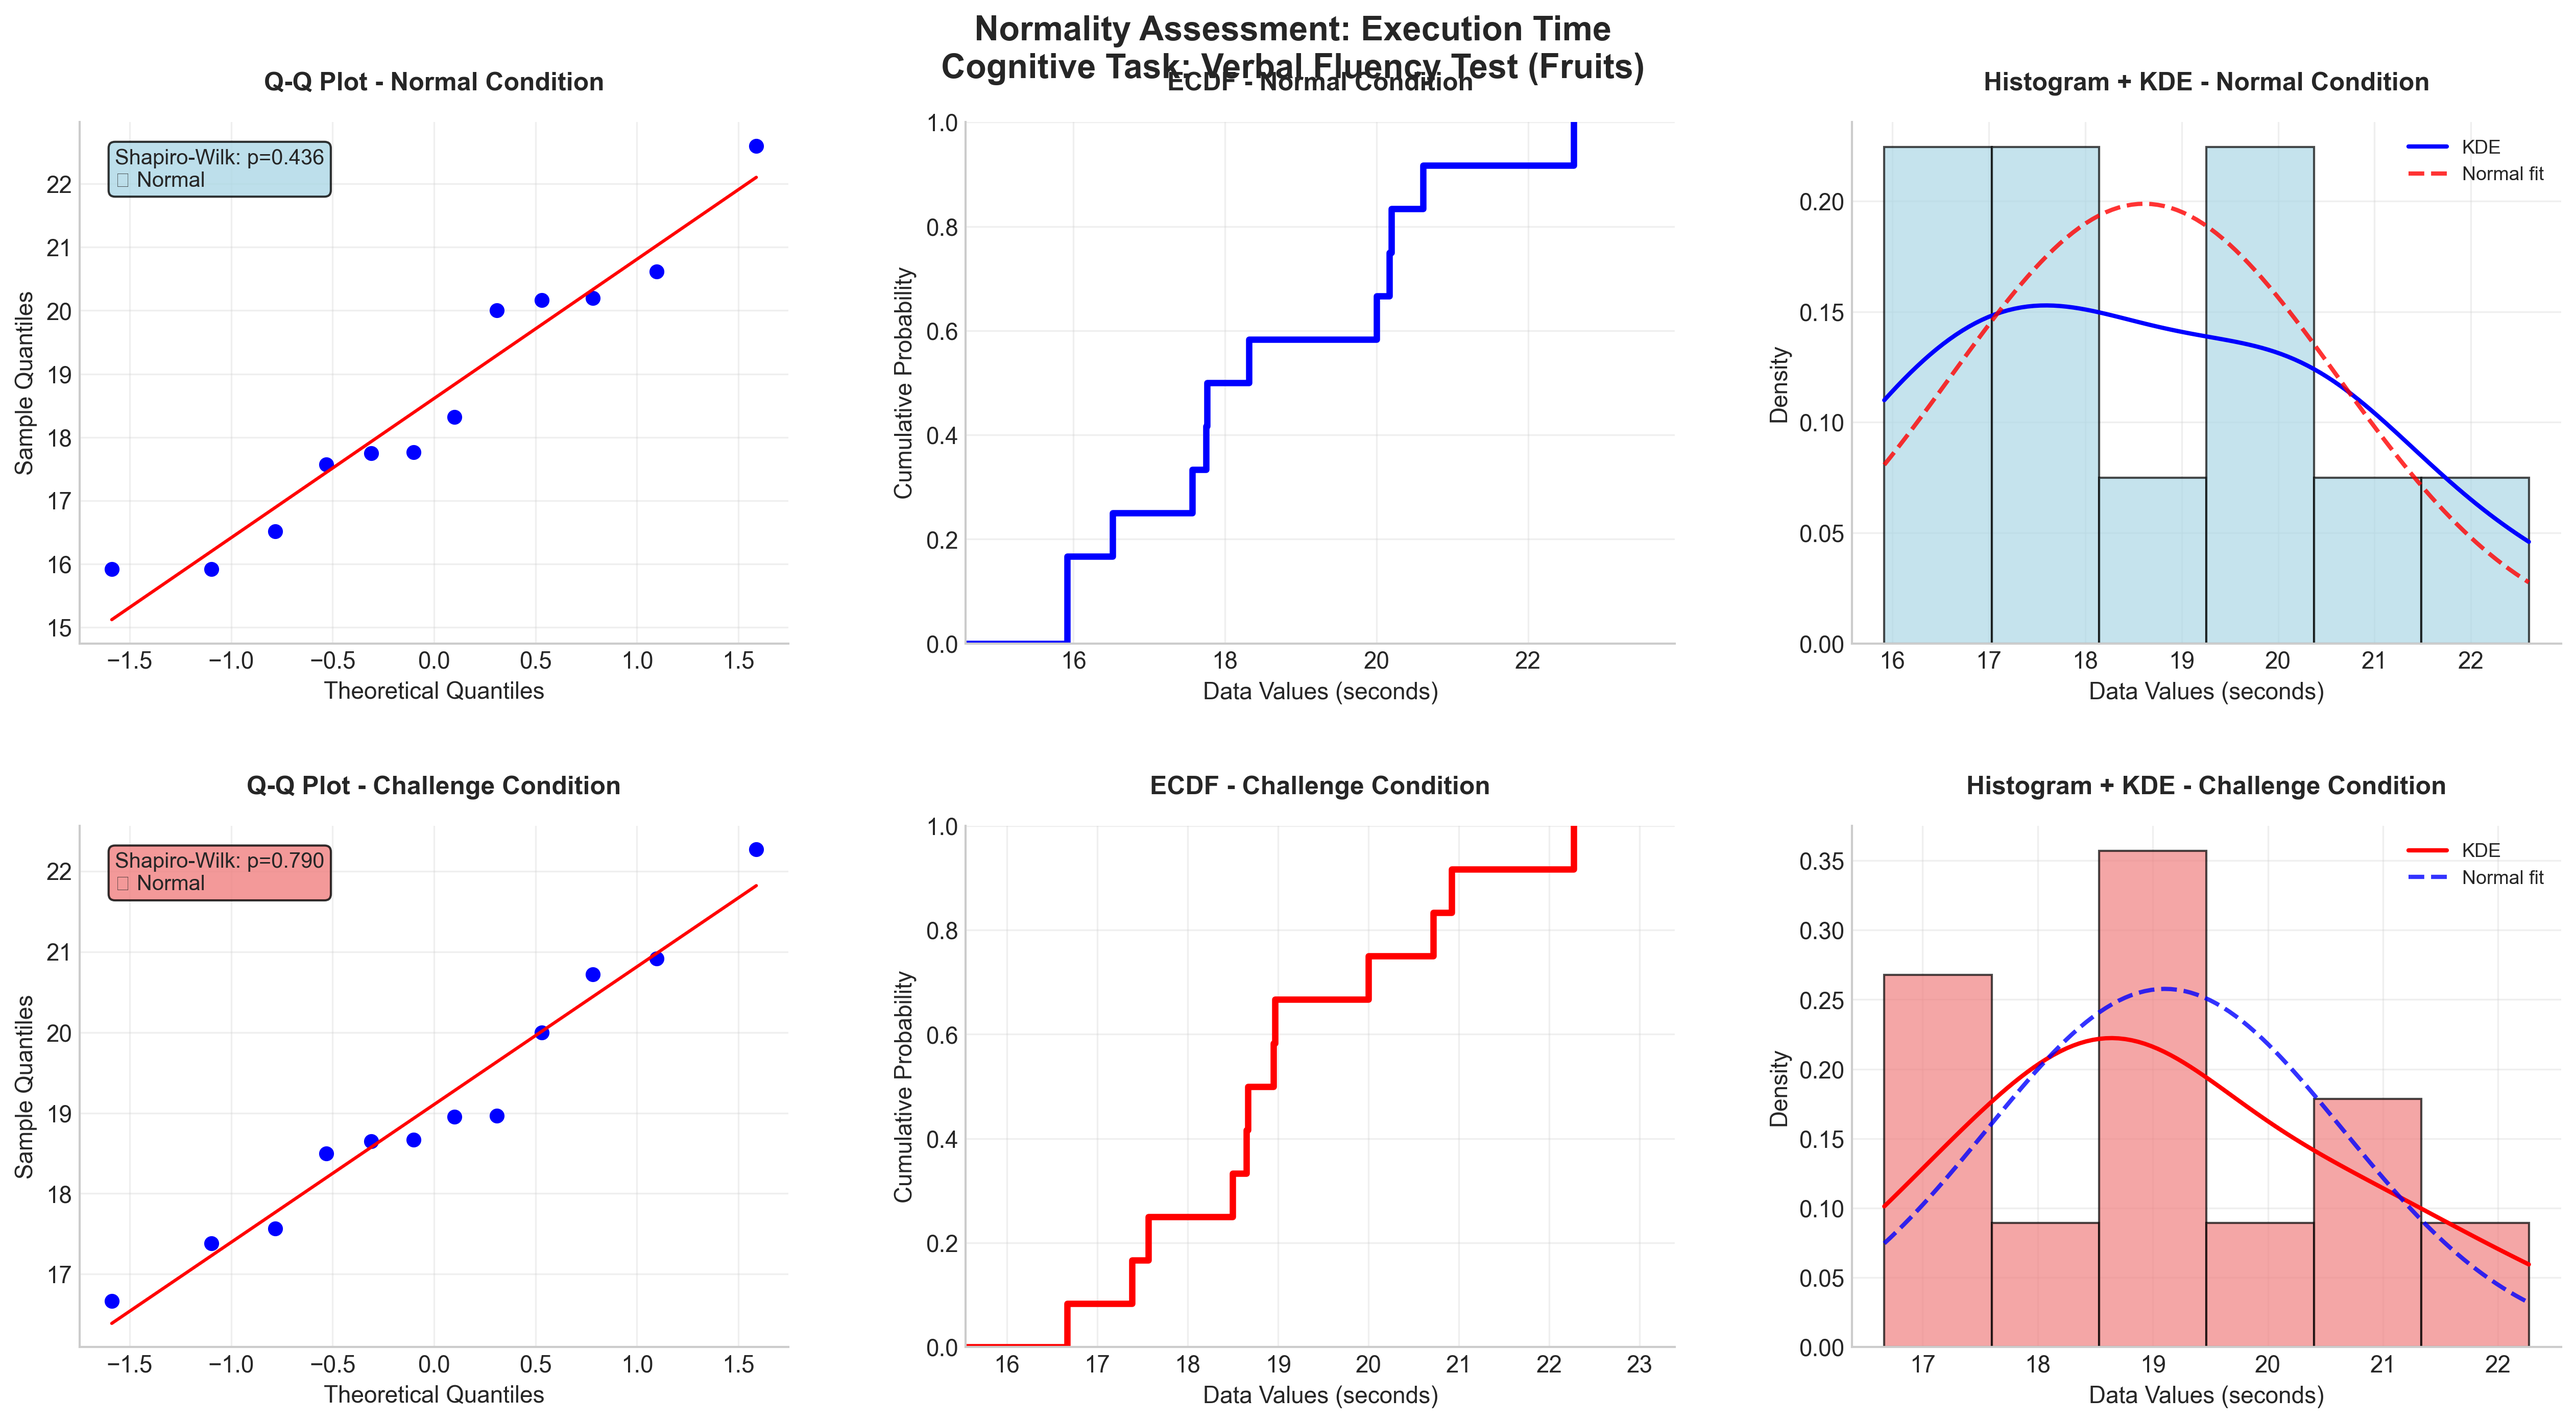
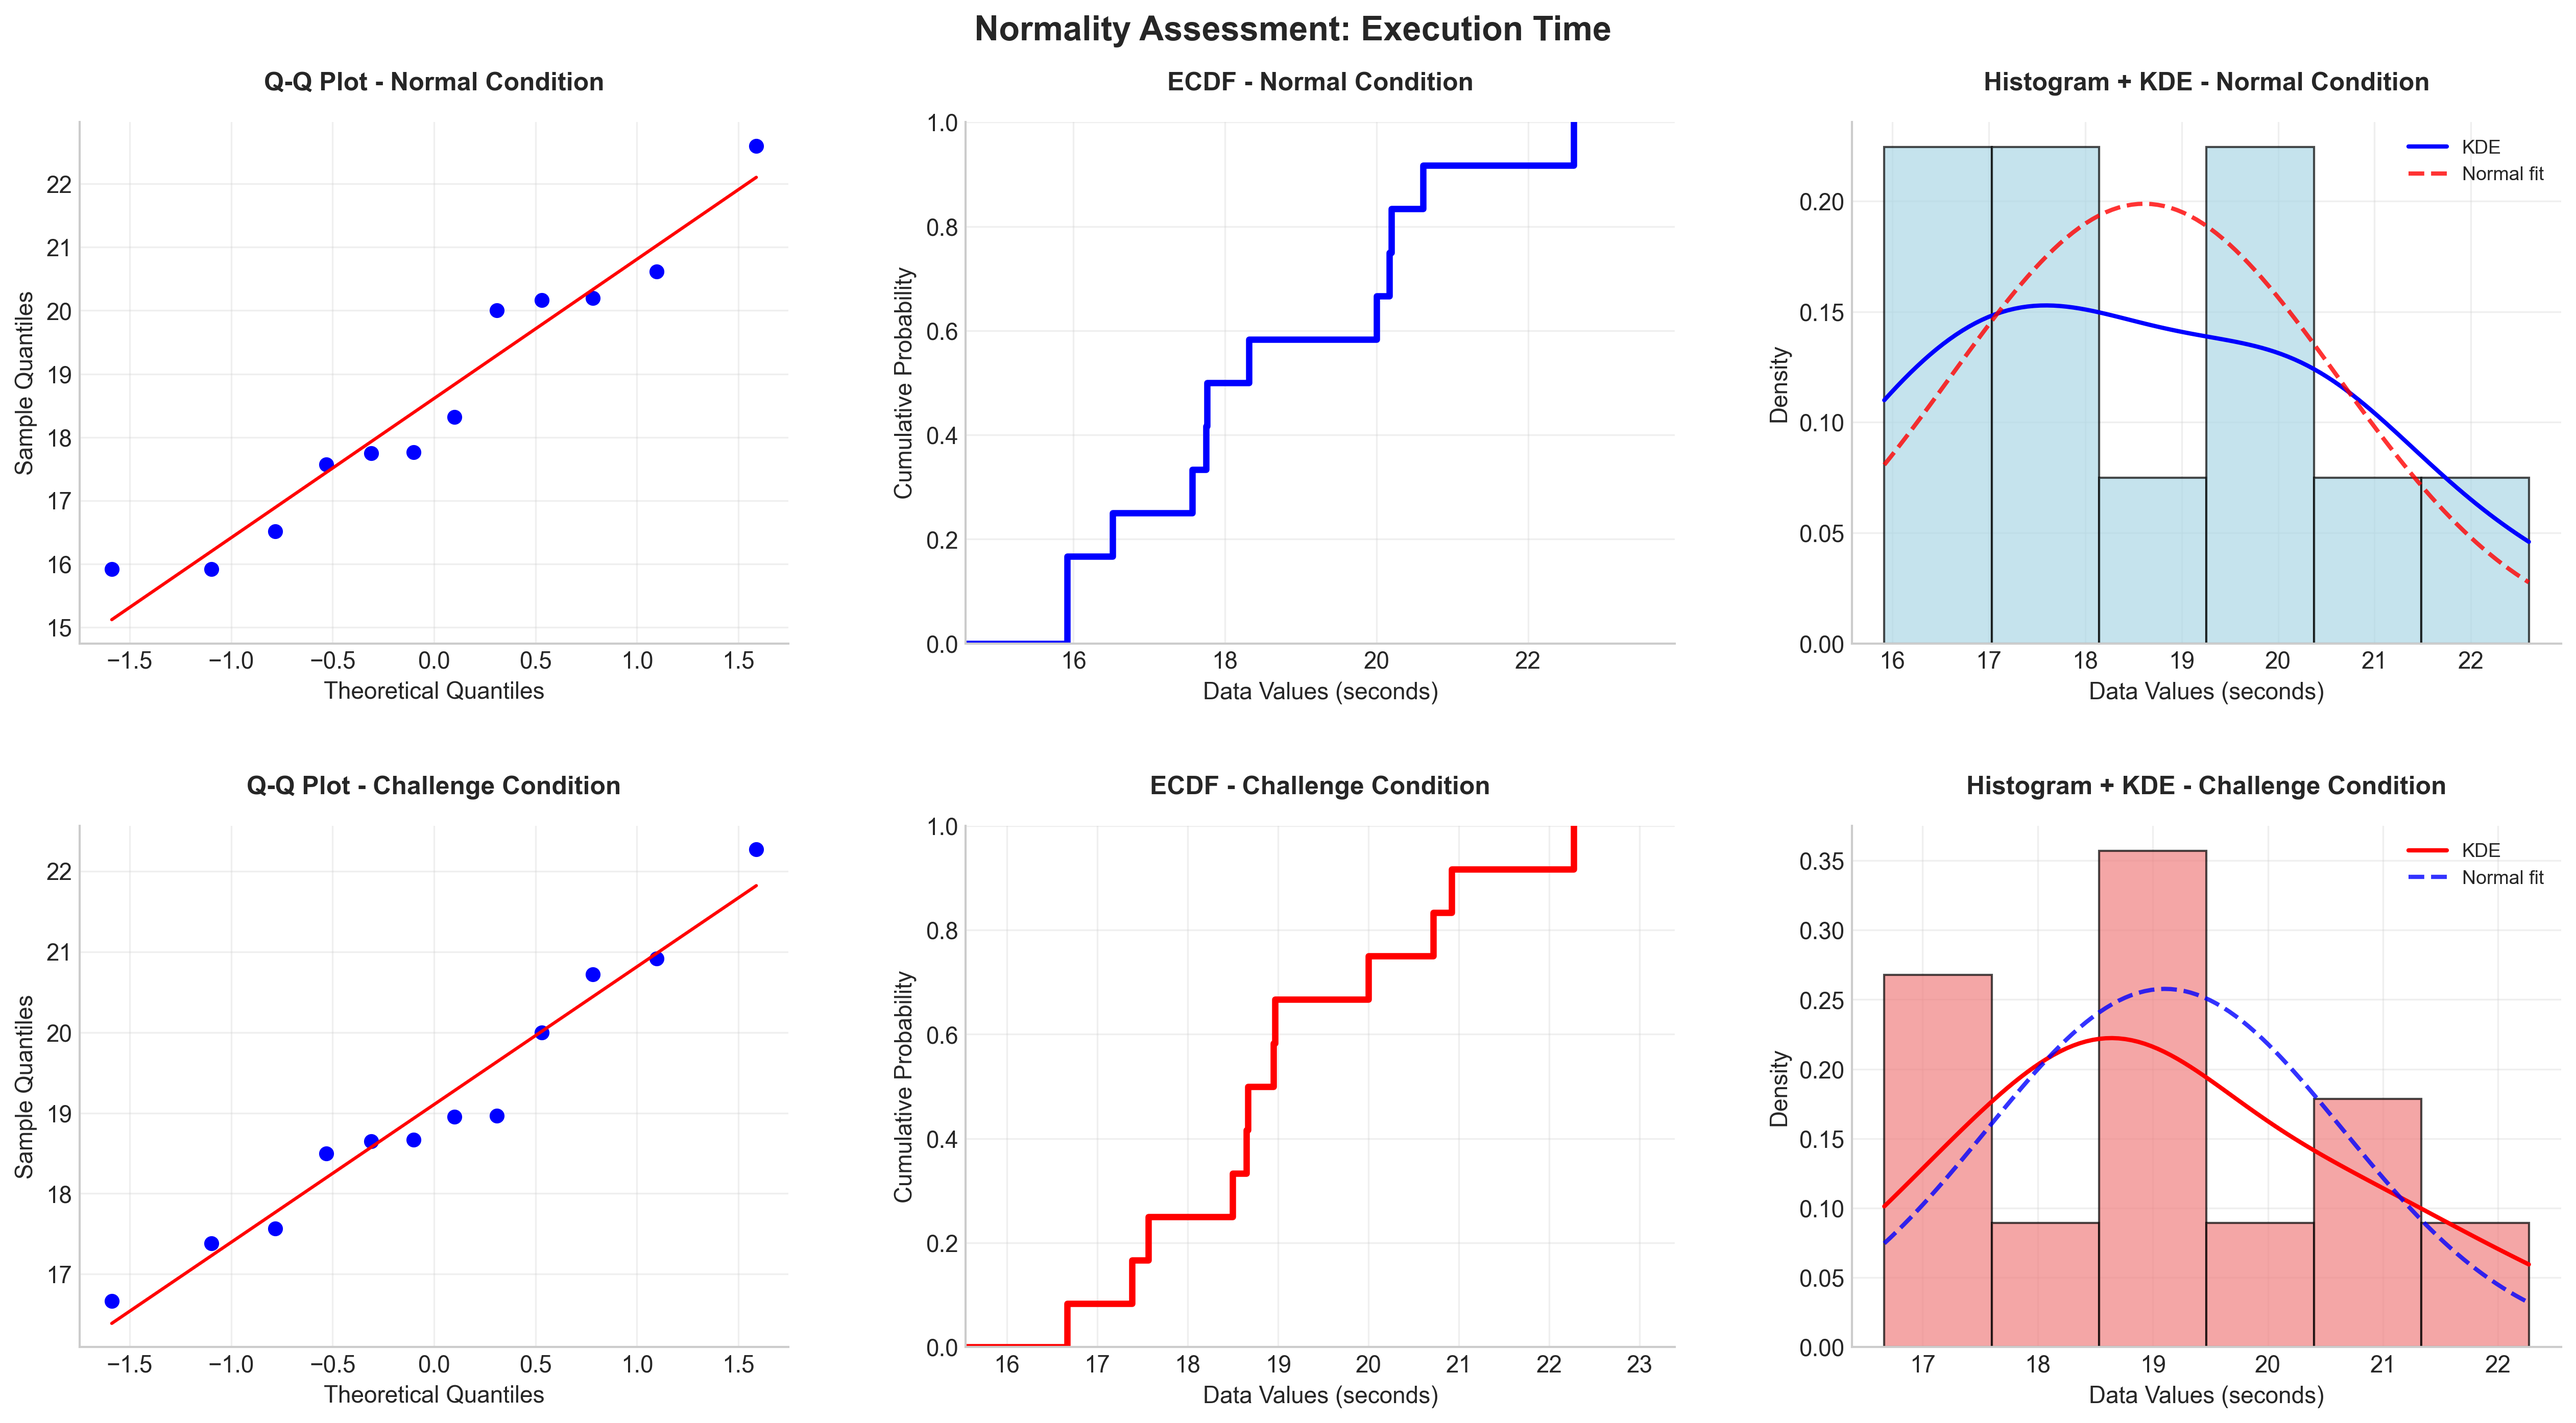
final changes for the visualizations

Changed region(s): [[0.3734, 0.0312, 0.6535, 0.0624], [0.0311, 0.5929, 0.1556, 0.6553], [0.0311, 0.0936, 0.1556, 0.156]]

diff --git a/src/kmeans_analyzer.py b/src/kmeans_analyzer.py
@@ -211,13 +211,13 @@ class KMeansAnalyzer:
         
         # Feature selection for better clustering
         from sklearn.feature_selection import SelectKBest, f_classif
-        if len(feature_cols) > 20:
+        if len(feature_cols) > 15:
             print(f"   Selecting top 20 features from {len(feature_cols)} available...")
             
             # Create target for feature selection (base_task)
             target = pd.Categorical(self.features_df['base_task']).codes
             
-            selector = SelectKBest(score_func=f_classif, k=20)
+            selector = SelectKBest(score_func=f_classif, k=12)
             X_selected = selector.fit_transform(X, target)
             
             selected_features = [feature_cols[i] for i in selector.get_support(indices=True)]
@@ -294,10 +294,19 @@ class KMeansAnalyzer:
             if len(feature_cols) > 15:
                 from sklearn.feature_selection import SelectKBest, f_classif
                 target = pd.Categorical(task_data['condition']).codes
-                selector = SelectKBest(score_func=f_classif, k=15)
+                selector = SelectKBest(score_func=f_classif, k=2)
                 X_task_selected = selector.fit_transform(X_task, target)
                 X_task = pd.DataFrame(X_task_selected, index=X_task.index)
-            
+
+                # Get selected feature names
+                selected_feature_indices = selector.get_support(indices=True)
+                selected_features = [feature_cols[i] for i in selected_feature_indices]
+                
+                print(f"   📊 Selected features for {base_task}:")
+                feature_scores = selector.scores_[selected_feature_indices]
+                for feat, score in zip(selected_features[:5], feature_scores[:5]):
+                    print(f"      {feat}: {score:.2f}")
+                
             # Standardize features for this task
             X_task_scaled = StandardScaler().fit_transform(X_task)
             
@@ -372,48 +381,50 @@ class KMeansAnalyzer:
         self.save_figure(fig, 'task_clustering_analysis.png')
     
     def plot_condition_clustering(self, results):
-        """Plot condition-based clustering results for each task."""
+        """Plot condition-based clustering results for each task with distinct colors."""
         n_tasks = len(results)
         if n_tasks == 0:
             return
-        
+
         fig, axes = plt.subplots(2, n_tasks, figsize=(5*n_tasks, 10))
         if n_tasks == 1:
             axes = axes.reshape(-1, 1)
-        
+
         for i, (base_task, task_results) in enumerate(results.items()):
             X_scaled = task_results['X_scaled']
             clusters = task_results['clusters']
             results_df = task_results['results_df']
-            
+
             # PCA for 2D visualization
             pca = PCA(n_components=2, random_state=42)
             X_pca = pca.fit_transform(X_scaled)
-            
-            # Plot 1: Clusters
+
+            # Plot 1: Clusters (K-means results)
             scatter1 = axes[0, i].scatter(X_pca[:, 0], X_pca[:, 1], c=clusters, 
-                                         cmap='coolwarm', alpha=0.7, s=60)
+                                        cmap='coolwarm', alpha=0.7, s=60)
             axes[0, i].set_title(f'{base_task.replace("_", " ").title()}\nK-means Clusters (k=2)', 
-                               fontsize=12, fontweight='bold')
+                            fontsize=12, fontweight='bold')
             axes[0, i].set_xlabel(f'PC1 ({pca.explained_variance_ratio_[0]:.1%})')
             axes[0, i].set_ylabel(f'PC2 ({pca.explained_variance_ratio_[1]:.1%})')
+
+            # Plot 2: True condition labels with manual color assignment
+            normal_mask = results_df['condition'] == 'normal'
+            challenge_mask = results_df['condition'] == 'challenge'
             
-            # Plot 2: True condition labels
-            condition_colors = {'normal': 0, 'challenge': 1}
-            true_colors = [condition_colors[cond] for cond in results_df['condition']]
-            scatter2 = axes[1, i].scatter(X_pca[:, 0], X_pca[:, 1], c=true_colors, 
-                                         cmap='coolwarm', alpha=0.7, s=60)
+            # Plot normal points in red and challenge points in blue
+            axes[1, i].scatter(X_pca[normal_mask, 0], X_pca[normal_mask, 1], 
+                            c='red', alpha=0.7, s=60, label='Normal', edgecolor='darkred')
+            axes[1, i].scatter(X_pca[challenge_mask, 0], X_pca[challenge_mask, 1], 
+                            c='blue', alpha=0.7, s=60, label='Challenge', edgecolor='darkblue')
+            
             axes[1, i].set_title(f'True Condition Labels', fontsize=12, fontweight='bold')
             axes[1, i].set_xlabel(f'PC1 ({pca.explained_variance_ratio_[0]:.1%})')
             axes[1, i].set_ylabel(f'PC2 ({pca.explained_variance_ratio_[1]:.1%})')
-            
+
             # Add legend for true labels (only for first plot)
             if i == 0:
-                for condition, color_idx in condition_colors.items():
-                    axes[1, i].scatter([], [], c=plt.cm.coolwarm(color_idx), 
-                                     label=condition.title(), s=60)
-                axes[1, i].legend()
-        
+                axes[1, i].legend(loc='upper right', frameon=True, fancybox=True)
+
         plt.suptitle('Condition-Based Clustering Analysis', fontsize=16, fontweight='bold')
         plt.tight_layout()
         self.save_figure(fig, 'condition_clustering_analysis.png')

diff --git a/src/analyzer.py b/src/analyzer.py
@@ -391,10 +391,10 @@ class MovellaAnalyzer:
         axes[0, 0].grid(True, alpha=0.3)
 
         # Add Shapiro-Wilk result
-        normality_status = "✓ Normal" if normal_p > 0.05 else "⚠ Non-normal"
-        axes[0, 0].text(0.05, 0.95, f'Shapiro-Wilk: p={normal_p:.3f}\n{normality_status}',
-                        transform=axes[0, 0].transAxes, fontsize=10, verticalalignment='top',
-                        bbox=dict(boxstyle='round', facecolor='lightblue', alpha=0.8))
+        # normality_status = "✓ Normal" if normal_p > 0.05 else "⚠ Non-normal"
+        # axes[0, 0].text(0.05, 0.95, f'Shapiro-Wilk: p={normal_p:.3f}\n{normality_status}',
+        #                 transform=axes[0, 0].transAxes, fontsize=10, verticalalignment='top',
+        #                 bbox=dict(boxstyle='round', facecolor='lightblue', alpha=0.8))
 
         # ECDF - Normal Condition
         sorted_data, ecdf_values = self.calculate_ecdf(normal_measurements)
@@ -451,10 +451,10 @@ class MovellaAnalyzer:
         axes[1, 0].grid(True, alpha=0.3)
 
         # Add Shapiro-Wilk result
-        normality_status = "✓ Normal" if challenge_p > 0.05 else "⚠ Non-normal"
-        axes[1, 0].text(0.05, 0.95, f'Shapiro-Wilk: p={challenge_p:.3f}\n{normality_status}',
-                        transform=axes[1, 0].transAxes, fontsize=10, verticalalignment='top',
-                        bbox=dict(boxstyle='round', facecolor='lightcoral', alpha=0.8))
+        # normality_status = "✓ Normal" if challenge_p > 0.05 else "⚠ Non-normal"
+        # axes[1, 0].text(0.05, 0.95, f'Shapiro-Wilk: p={challenge_p:.3f}\n{normality_status}',
+        #                 transform=axes[1, 0].transAxes, fontsize=10, verticalalignment='top',
+        #                 bbox=dict(boxstyle='round', facecolor='lightcoral', alpha=0.8))
 
         # ECDF - Challenge Condition
         sorted_data, ecdf_values = self.calculate_ecdf(challenge_measurements)
@@ -502,8 +502,7 @@ class MovellaAnalyzer:
         axes[1, 2].grid(True, alpha=0.3)
 
         # Add overall title with task information
-        plt.suptitle(f'Normality Assessment: {measurement_info["name"]}\n' + 
-                    f'Cognitive Task: {measurement_info["cognitive_task"]}', 
+        plt.suptitle(f'Normality Assessment: {measurement_info["name"]}\n', 
                     fontsize=16, fontweight='bold', y=0.95)
 
         # Adjust layout

diff --git a/src/vis/enhanced_visualizer_new.py b/src/vis/enhanced_visualizer_new.py
@@ -192,12 +192,12 @@ class EnhancedVisualizerNew:
         axes[-1].set_xlabel('Task Completion (%)', fontsize=12)
         
         # Create title with parameters
-        title_parts = ['Smoothed Participants Comparison']
-        if participant_subset:
-            title_parts.append(f'(Selected: {len(participant_subset)} participants)')
-        title_parts.append(f'- {smoothing_method.title()} Smoothing')
+        # title_parts = ['Smoothed Participants Comparison']
+        # if participant_subset:
+        #     title_parts.append(f'(Selected: {len(participant_subset)} participants)')
+        # title_parts.append(f'- {smoothing_method.title()} Smoothing')
         
-        plt.suptitle(' '.join(title_parts), fontsize=16, fontweight='bold', y=0.98)
+        # plt.suptitle(' '.join(title_parts), fontsize=16, fontweight='bold', y=0.98)
         plt.tight_layout()
         self.save_figure(fig, f'smoothed_participants_comparison_{smoothing_method}.png')
     
@@ -667,8 +667,8 @@ def create_all_new_visualizations(data, selected_participants=None):
     print("  1. Smoothed participants comparison...")
     visualizer.plot_smoothed_participants_comparison(
         data, 
-        participant_subset=selected_participants,
-        smoothing_method='savgol'
+        participant_subset=selected_participants,  # Example participants
+        smoothing_method='rolling'
     )
     
     # 2. Aggregated feature bars (only t-test features)
